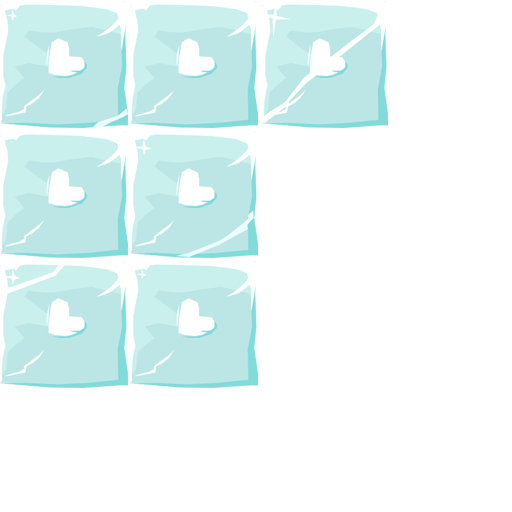
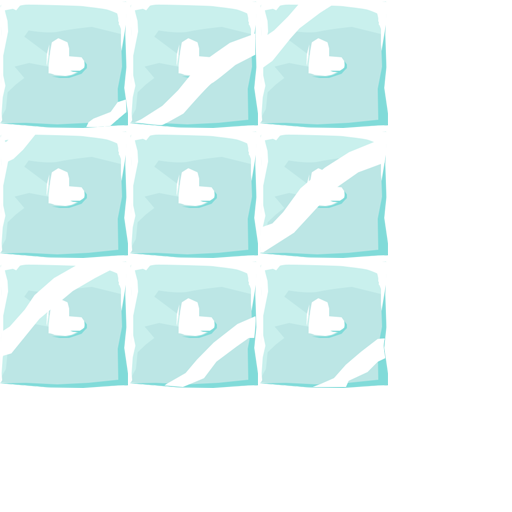
update brick

diff --git a/JokerJumper/GameLayer.mm b/JokerJumper/GameLayer.mm
@@ -120,7 +120,7 @@
     else if(type==kGameObjectPlatform1)
     {
         platform=[[GameObject alloc] init];
-        for(int i = 0; i <= 6; ++i) {
+        for(int i = 0; i <= 8; ++i) {
             [animFrames addObject:
              [[CCSpriteFrameCache sharedSpriteFrameCache] spriteFrameByName:
               [NSString stringWithFormat:@"brick_ice_flashing%d.png",i]]];
